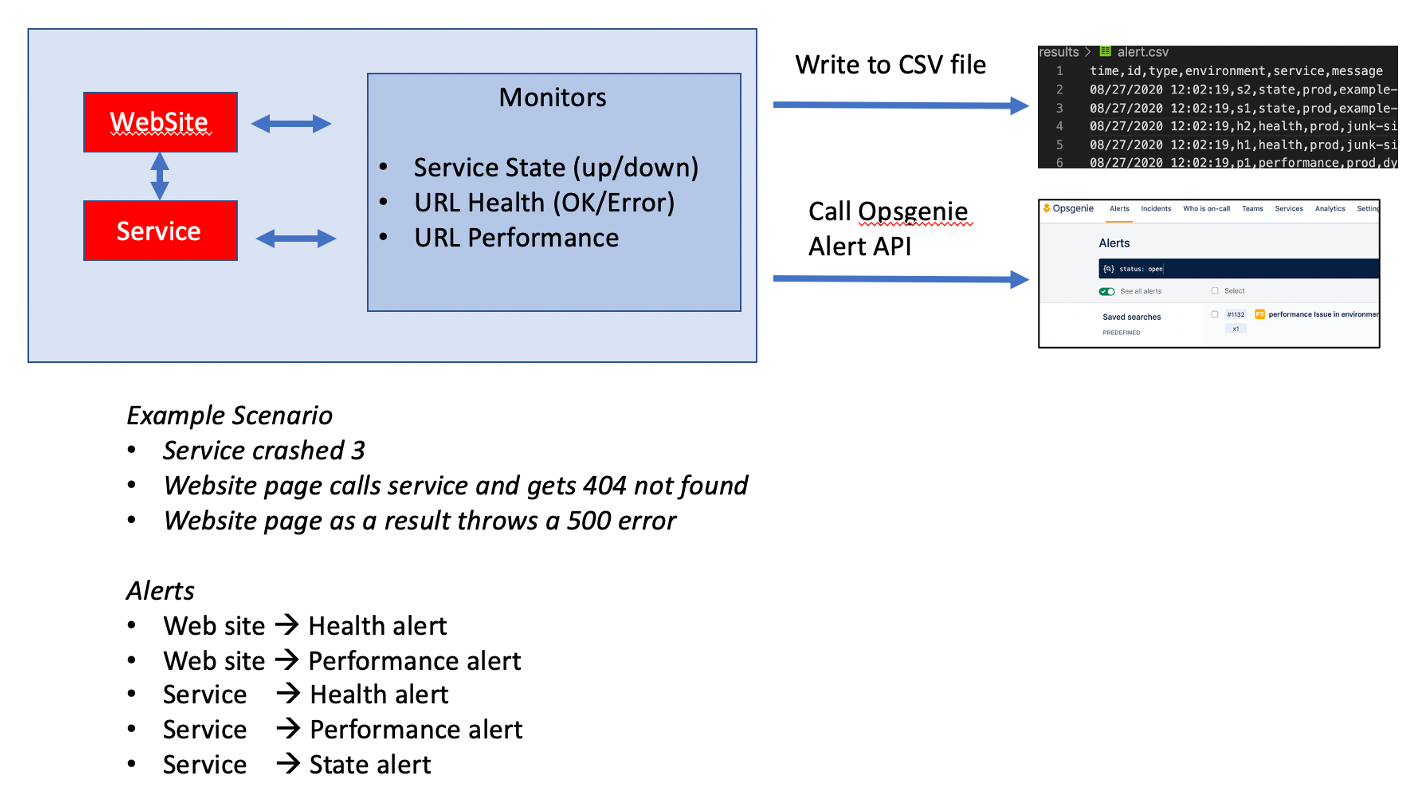
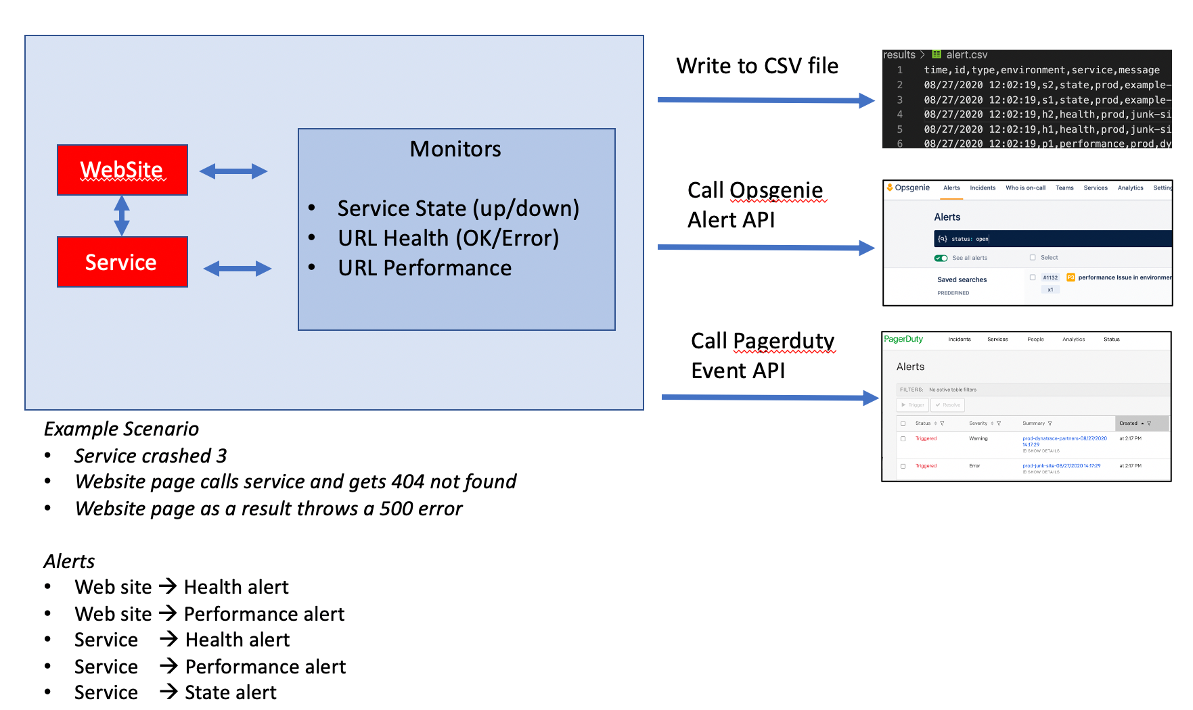
add support for pagerduty

diff --git a/monitoring.py b/monitoring.py
@@ -8,6 +8,7 @@ from multiprocessing import Process
 
 debugOutput=False
 sendopsgenie=False
+sendpagerduty=False
 alertFile='results/alert.csv'
 
 def debugMessage(message):
@@ -25,13 +26,17 @@ def readConfig(configfilename):
     debugMessage("DEBUG - readConfig() monitoringFrequencySeconds : " + monitoringFrequencySeconds)
     debugMessage("DEBUG - readConfig() debugOutput                : " + str(debugOutput))
     debugMessage("DEBUG - readConfig() sendopsgenie               : " + str(sendopsgenie))
+    debugMessage("DEBUG - readConfig() sendpagerduty              : " + str(sendpagerduty))
     if opsgenieApiUrl:
         debugMessage("DEBUG - readConfig() opsgenieApiUrl             : " + opsgenieApiUrl)
+    if pagerDutyApiUrl:
+        debugMessage("DEBUG - readConfig() pagerDutyApiUrl            : " + pagerDutyApiUrl)
     debugMessage("DEBUG - readConfig() configfilename             : " + configfilename)
     debugMessage("DEBUG - readConfig() =====================================================")
-    debugMessage("DEBUG - readConfig() monitors:")
+    debugMessage("DEBUG - readConfig() enabled monitors:")
     for url in data['monitors']:
-        debugMessage('                       id: ' + url['id'] + ', command: ' + url['command'] + ', url: ' + url['url'] + ', target: ' + url['target'])
+        if url['enabled'] == "true":
+            debugMessage('                       id: ' + url['id'] + ', command: ' + url['command'] + ', url: ' + url['url'] + ', target: ' + url['target'])
     debugMessage("DEBUG - readConfig() =====================================================")
 
 def createAlertFile():
@@ -40,11 +45,51 @@ def createAlertFile():
     f.close()
 
 def sendAlert(id,alertType,environment,service,alertMessage):
+    # https://developer.pagerduty.com/docs/events-api-v2/overview/
     alertDateTime=str(datetime.now().strftime("%m/%d/%Y %H:%M:%S"))
     # write alert to file
     f = open(alertFile, "a")
     f.write(alertDateTime + ',' + id + ',' + alertType + ',' + environment + ',' + service + ',' + alertMessage+'\n')
     f.close()
+
+    if sendpagerduty:
+        summary=environment+'-'+service + '-' + str(datetime.now().strftime("%m/%d/%Y %H:%M:%S"))
+        source="simple-monitoring-tool"
+        component=environment+'-'+service
+        group=""
+        theclass=""
+        routing_key=pagerdutyApiToken
+        event_action="trigger"
+        dedup_key=""
+
+        if alertType=='state':
+            severity="critical"
+        elif alertType=='health':
+            severity="error"
+        else:   # performance
+            severity="warning"
+
+        alertHeaders = {'content-type': 'application/json' }
+        alertBodyString = ' { "payload": { \
+            "summary":"' + summary + '", \
+            "severity":"' + severity + '", \
+            "source":"' + source + '", \
+            "component":"' + component + '", \
+            "group":"' + group + '", \
+            "class":"' + theclass + '"}, \
+            "routing_key":"' + routing_key + '", \
+            "event_action":"' + event_action + '", \
+            "dedup_key":"' + dedup_key + '"}'
+        alertBodyJson = json.loads(alertBodyString)
+
+        debugMessage("DEBUG - sendAlert() - pagerDutyApiUrl: " + pagerDutyApiUrl)
+        debugMessage("DEBUG - sendAlert() - alertBody: " + json.dumps(alertBodyJson))
+        debugMessage("DEBUG - sendAlert() - alerteaders: " + str(alertHeaders))
+        alertResponse = requests.post(pagerDutyApiUrl, data=json.dumps(alertBodyJson), headers=alertHeaders)
+        debugMessage("DEBUG - sendAlert() - alertResponse.text: " + str(alertResponse.text))
+        debugMessage("DEBUG - sendAlert() - alertResponse.status_code: " + str(alertResponse.status_code))
+    else:
+        debugMessage("DEBUG - sendAlert() - Skipping PagerDuty call")
 
     if sendopsgenie:
         # call Opsgenie API - https://docs.opsgenie.com/docs/alert-api
@@ -162,19 +207,28 @@ def process(configfilename):
 
 if __name__ == "__main__":
     ap = argparse.ArgumentParser()
-    ap.add_argument('-u','--url', help='opsgenie-api-url')
-    ap.add_argument('-t','--token', help='opsgenie-api-token')
-    ap.add_argument('-f','--frequency', required=True, help='monitoring-frequency-seconds')
-    ap.add_argument('-c','--configfilename', help='configfilename', default='config.json')
-    ap.add_argument('--sendopsgenie', help='make opsgenie call', action='store_true', default=False)
+    ap.add_argument('-f','--frequency', required=True, help='monitoring frequency in seconds')
+    ap.add_argument('-c','--configfilename', help='montoring config filename', default='config.json')
     ap.add_argument('--debug', help='add for more logging detail', action='store_true', default=False)
+    ap.add_argument('--sendopsgenie', help='make opsgenie call', action='store_true', default=False)
+    ap.add_argument('--ogurl', help='opsgenie api url')
+    ap.add_argument('--ogtoken', help='opsgenie api token')
+    ap.add_argument('--sendpagerduty', help='make sendpagerduty call', action='store_true', default=False)
+    ap.add_argument('--pdurl', help='pagerduty api url')
+    ap.add_argument('--pdkey', help='pagerduty integration key')
     args = vars(ap.parse_args())
     
-    opsgenieApiUrl = args['url']
-    opsgenieApiToken = args['token']
+    opsgenieApiUrl = args['ogurl']
+    opsgenieApiToken = args['ogtoken']
+    pagerDutyApiUrl = args['pdurl']
+    pagerdutyApiToken = args['pdkey']
     monitoringFrequencySeconds = args['frequency']
+
+    print(args["sendopsgenie"])
     if args["sendopsgenie"]:
         sendopsgenie = True
+    if args["sendpagerduty"]:
+        sendpagerduty = True
     if args["debug"]:
         debugOutput = True
 

diff --git a/README.md b/README.md
@@ -1,6 +1,9 @@
 # Overview
 
-Simple monitoring script this can be used for demoing alerts storms.  It will script errors or `alerts` to a local CSV file or optional create Atlassian Opsgenie alerts using the [Opsgenie API](https://docs.opsgenie.com/docs/alert-api).
+Simple monitoring script this can be used for demoing alerts storms.  It will script errors or `alerts` to:
+* A local CSV file
+* optional create Atlassian Opsgenie alerts using the [Opsgenie API](https://docs.opsgenie.com/docs/alert-api).
+* optional create PagerDuty alerts using the [PagerDuty API](https://developer.pagerduty.com/docs/events-api-v2/overview).
 
 <img src="images/overview.png" width="700"/>
 
@@ -24,6 +27,9 @@ If Opsgenie alerting is enables, each alert will be create an appear in the aler
 
 <img src="images/opsgenie.png" width="700"/>
 
+If PagerDuty alerting is enables, each alert will be create an appear in the alert page as shown below.
+
+<img src="images/pd-alerts.png" width="700"/>
 
 # Usage
 
@@ -38,23 +44,34 @@ The [run.sh](run.sh) script is used to run the monitor and this accepts multiple
 Or you can pass in one or more parameters, for example:
 
 ```
-./run.sh --frequency 10 --debug true --sendopsgenie false --configfilename config.json.demo
+./run.sh --frequency 10 --debug true --sendopsgenie true --sendpagerduty true --configfilename config.json.demo
 ```
 
-Parameters
+Optional Parameters
 * `--frequency XX` - Sets the loop frequency to `XX` seconds
 * `--debug [true/false]` - Sets addition debug console log output
-* `--sendopsgenie [true/false]` - When an alert is created, this enables it to call the 
+* `--sendopsgenie [true/false]` - When an alert is created, this enables it to call the API
+* `--sendpagerduty [true/false]` - When an alert is created, this enables it to call the API
 * `--configfilename XX` - Set a custom monitor config file. `XX` is file name such as `config.json.demo`
 
 --frequency 10 --debug true --sendopsgenie false --configfilename config.json.demo
 
-# OpeGenie Alert API setup
+# Opsgenie Alert API setup
 
-If the `--sendopsgenie true` parameter is passed, then the creds.json files must be created with the opsgenie URL and token.
+If the `--sendopsgenie true` parameter is passed, then the creds.json files must be created with the Opsgenie URL and token.
 
 Just run this command `cp creds.template creds.json` and edit the `creds.json` file.
 
-The API is created within Opsgenie [integration page](https://app.opsgenie.com/settings/integration/add/API/) as an `API` integration. This is the configuration page in Opsgenie.
+The API is created within Opsgenie [integration page](https://app.opsgenie.com/settings/integration/add/API/) as an `API` integration. This is the configuration page in Opsgenie where you get the OPSGENIE_API_TOKEN.
 
 <img src="images/token.png" width="700"/>
+
+# PagerDuty Event API setup
+
+If the `--sendpagerduty true` parameter is passed, then the creds.json files must be created with the PagerDuty URL and token.
+
+Just run this command `cp creds.template creds.json` and edit the `creds.json` file.
+
+The KEY is created within PagerDuty [integration page](https://support.pagerduty.com/docs/services-and-integrations) as an `service integration`. This is the configuration page in PagerDuty where you get the PAGERDUTY_INTEGRATION_KEY.
+
+<img src="images/pd-key.png" width="700"/>
